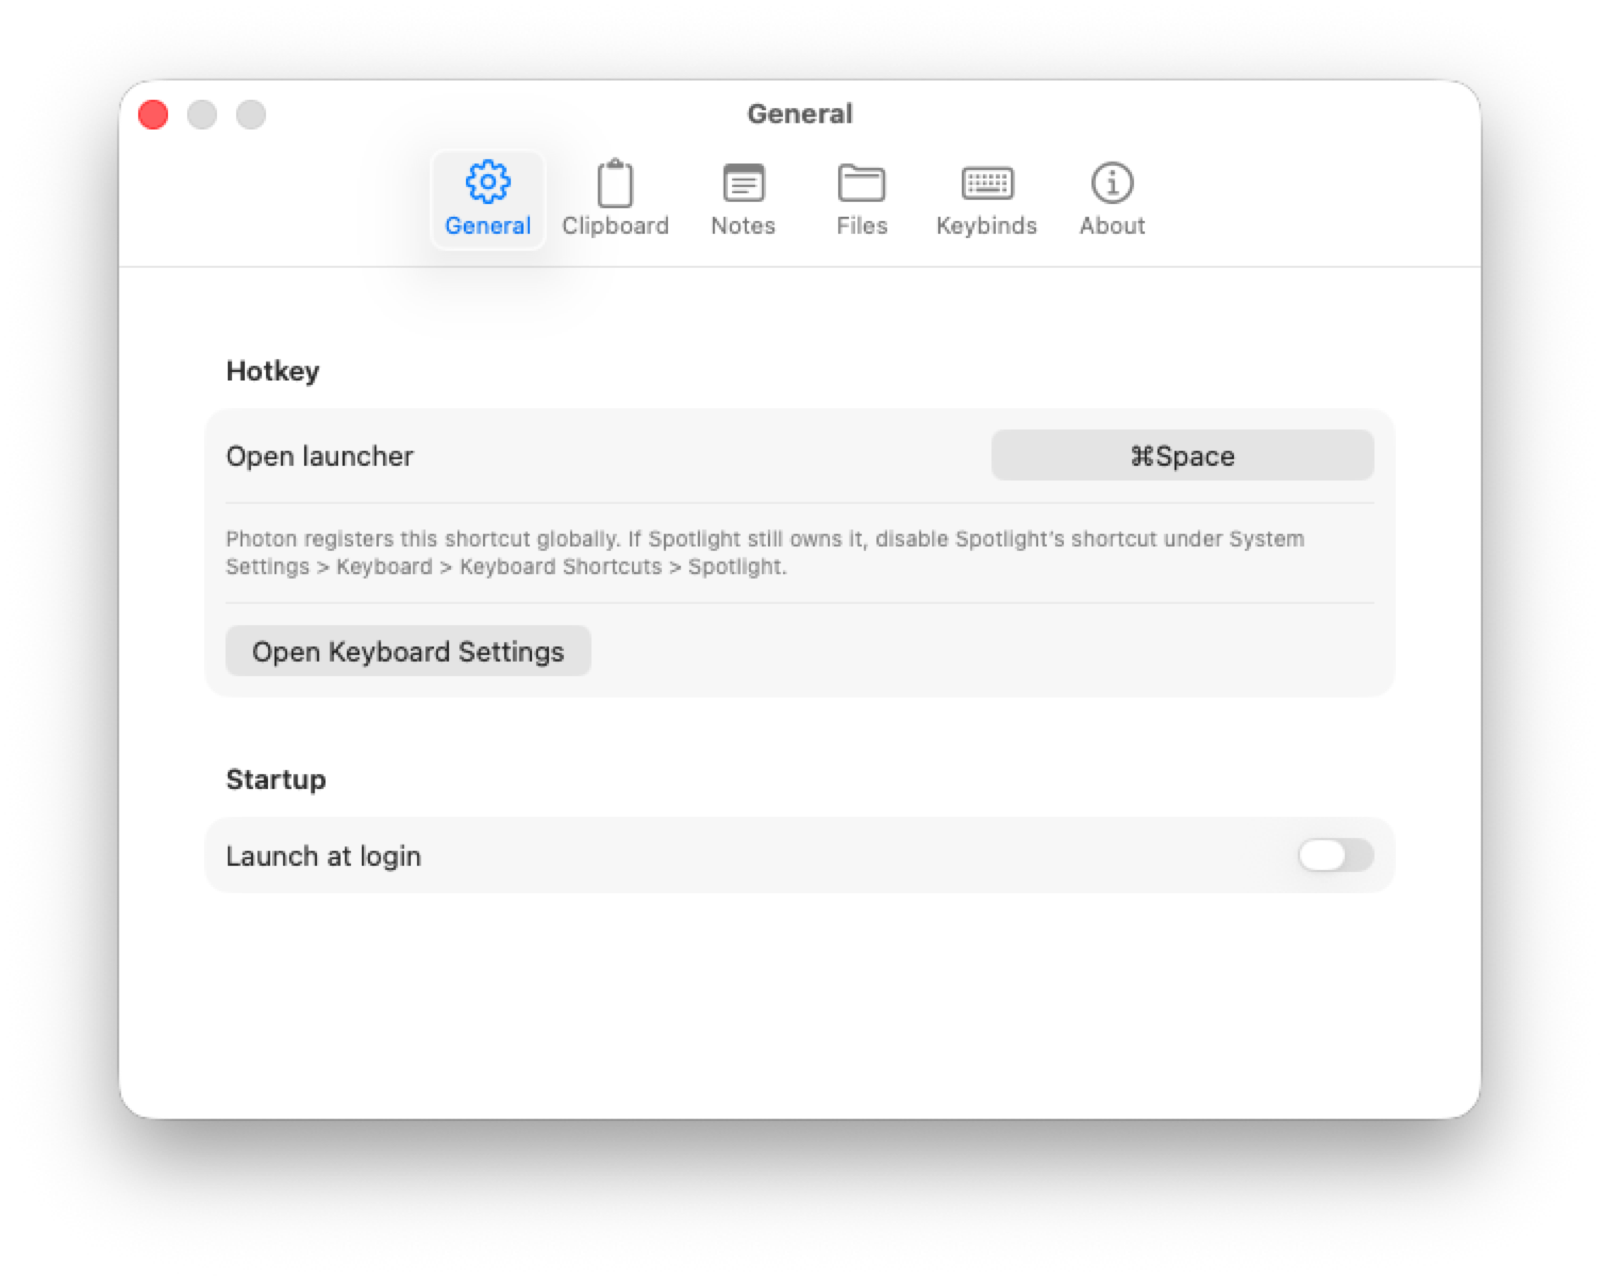
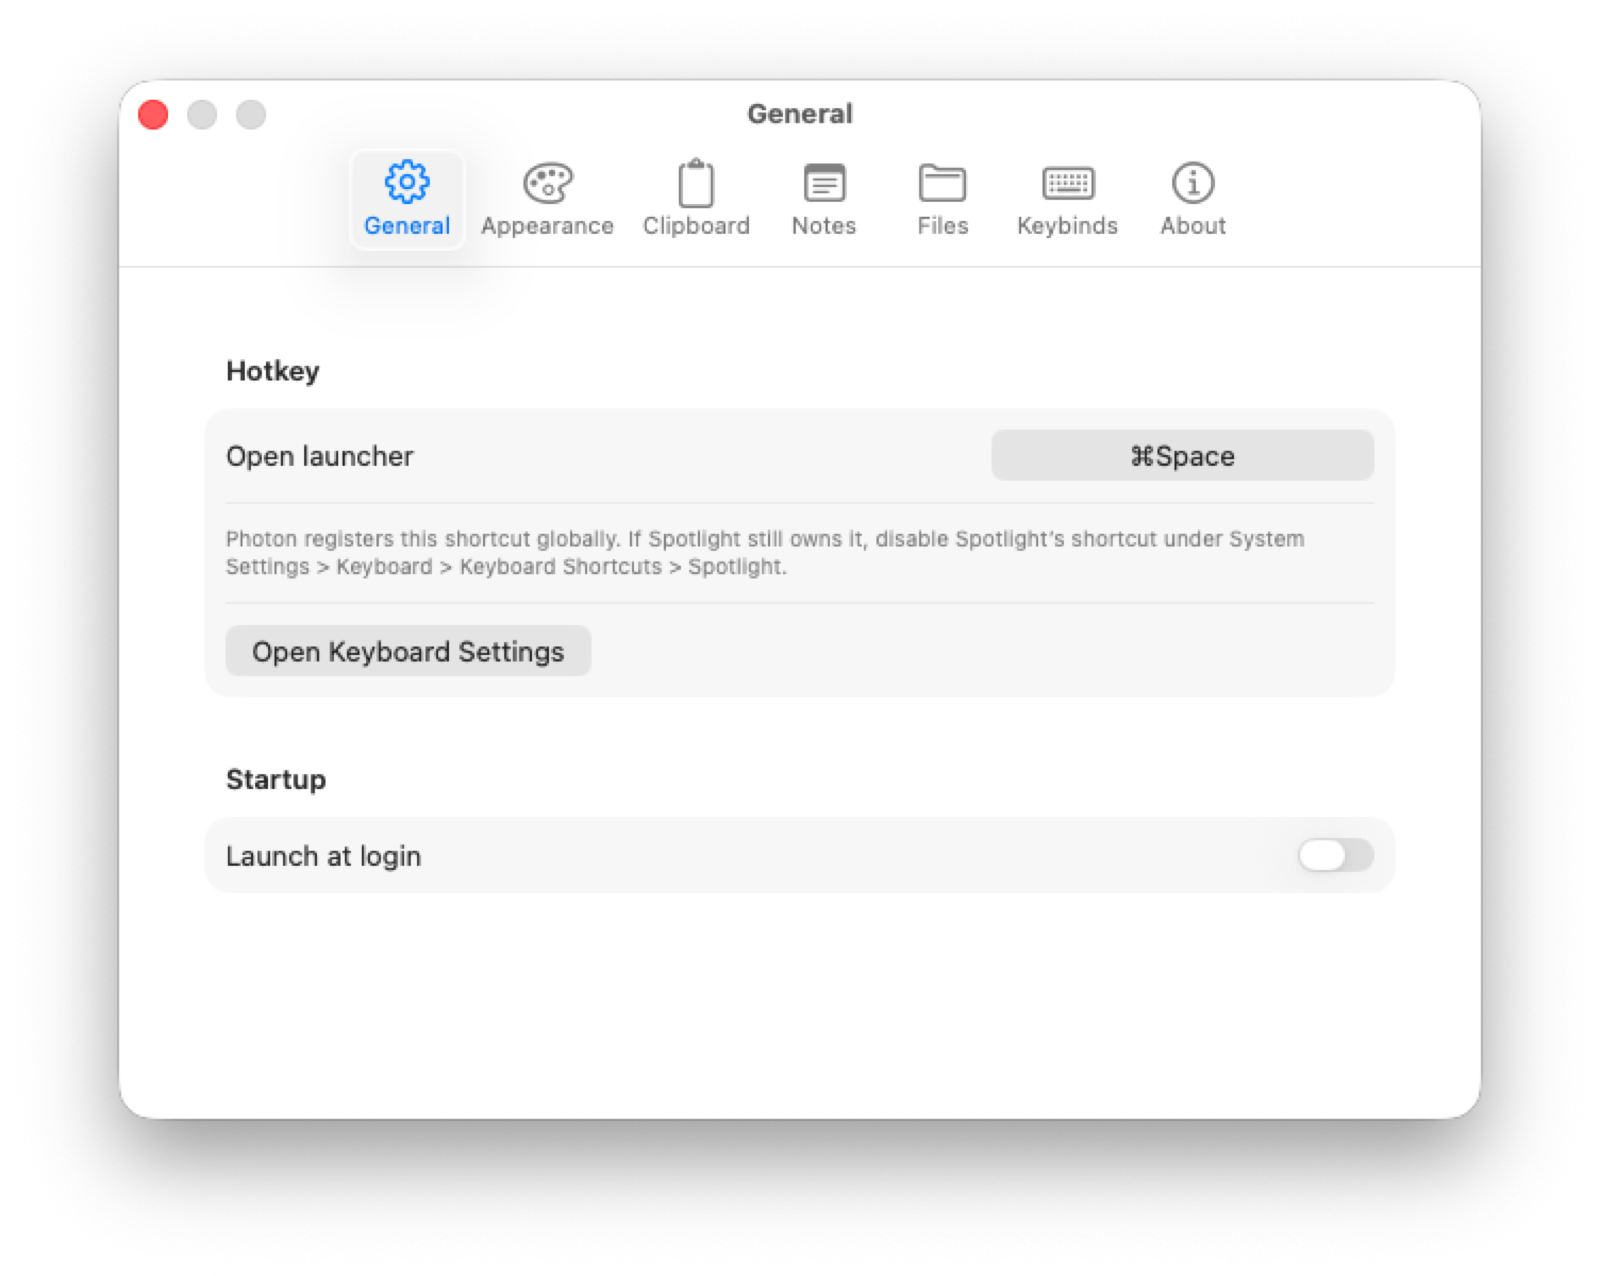
docs: add UI screenshots and fix settings scenario timing

Changed region(s): [[0.2188, 0.1223, 0.7812, 0.1834]]

diff --git a/Sources/Photon/UIScenario/UIScenarioRunner.swift b/Sources/Photon/UIScenario/UIScenarioRunner.swift
@@ -23,6 +23,7 @@ extension AppRuntime {
     case let .settings(pane):
       settings.pendingSettingsPane = pane
       openSettings()
+      try? await Task.sleep(nanoseconds: 1_200_000_000)
       positionSettingsWindowForScreenshot()
     case .notes:
       seedScreenshotNoteIfNeeded()
@@ -52,7 +53,10 @@ extension AppRuntime {
       }
       return []
     case .settings:
-      return NSApp.windows.filter { $0.title == "General" || $0.title == "Settings" }
+      return NSApp.windows.filter {
+        ["General", "Appearance", "Settings"].contains($0.title)
+          || $0.className.contains("Settings")
+      }
     case .notes:
       if let window = notes.controller.screenshotWindow {
         return [window]
